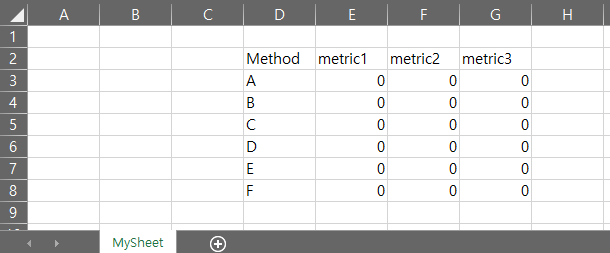
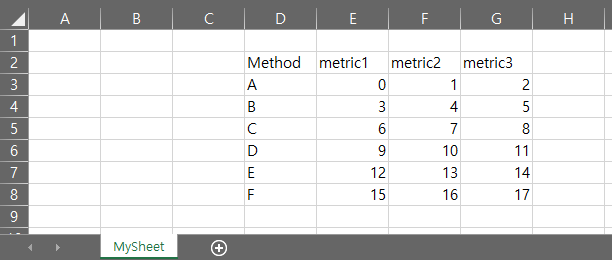
Bug fix (0.3.1)

diff --git a/easypyxl/easypyxl.py b/easypyxl/easypyxl.py
@@ -82,7 +82,8 @@ class Workbook:
         if self.empty_file:
             sheet = self.workbook.active
             sheet.title = sheetname
-            print(f"EasyPyXL created sheet: {sheetname}")
+            if self.verbose:
+                print(f"EasyPyXL created sheet: {sheetname}")
         else:
             if sheetname in self.workbook.sheetnames:
                 sheet = self.workbook[sheetname]

diff --git a/setup.py b/setup.py
@@ -6,7 +6,7 @@ with open("README.md", "r") as f:
 
 setup(
     name='easypyxl',
-    version='0.3.0',
+    version='0.3.1',
     descripton='This python package is a wrapper of OpenPyXL for easy usage.',
     long_description=long_description,
     long_description_content_type="text/markdown",

diff --git a/easypyxl/__init__.py b/easypyxl/__init__.py
@@ -1,4 +1,4 @@
 from .easypyxl import *
 
-__version__ = "0.3.0"
+__version__ = "0.3.1"
 __author__ = "CauchyComplete"

diff --git a/README.md b/README.md
@@ -40,6 +40,7 @@ for method in ['A', 'B', 'C', 'D', 'E', 'F']:
     # Run your code
     for i in range(3):
         cursor.write_cell(count)
+        count += 1
 ```
 ![ex2](https://github.com/CauchyComplete/EasyPyXL/blob/main/images/ex2.png?raw=true)
 
